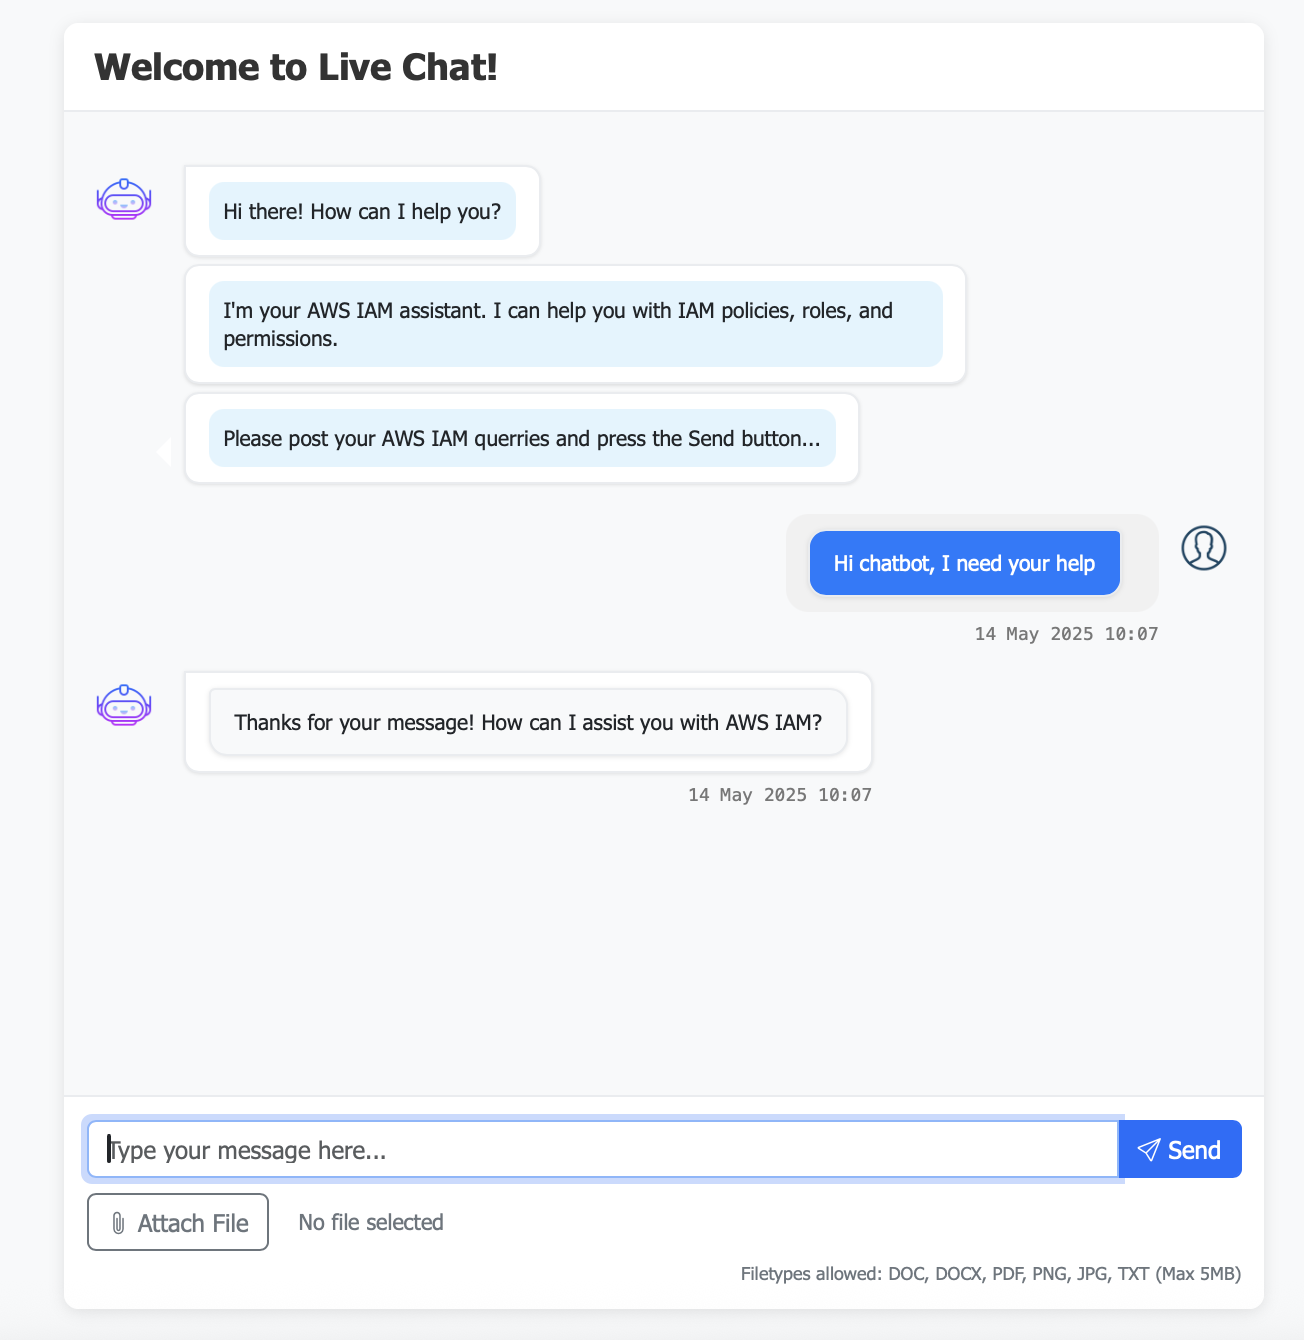
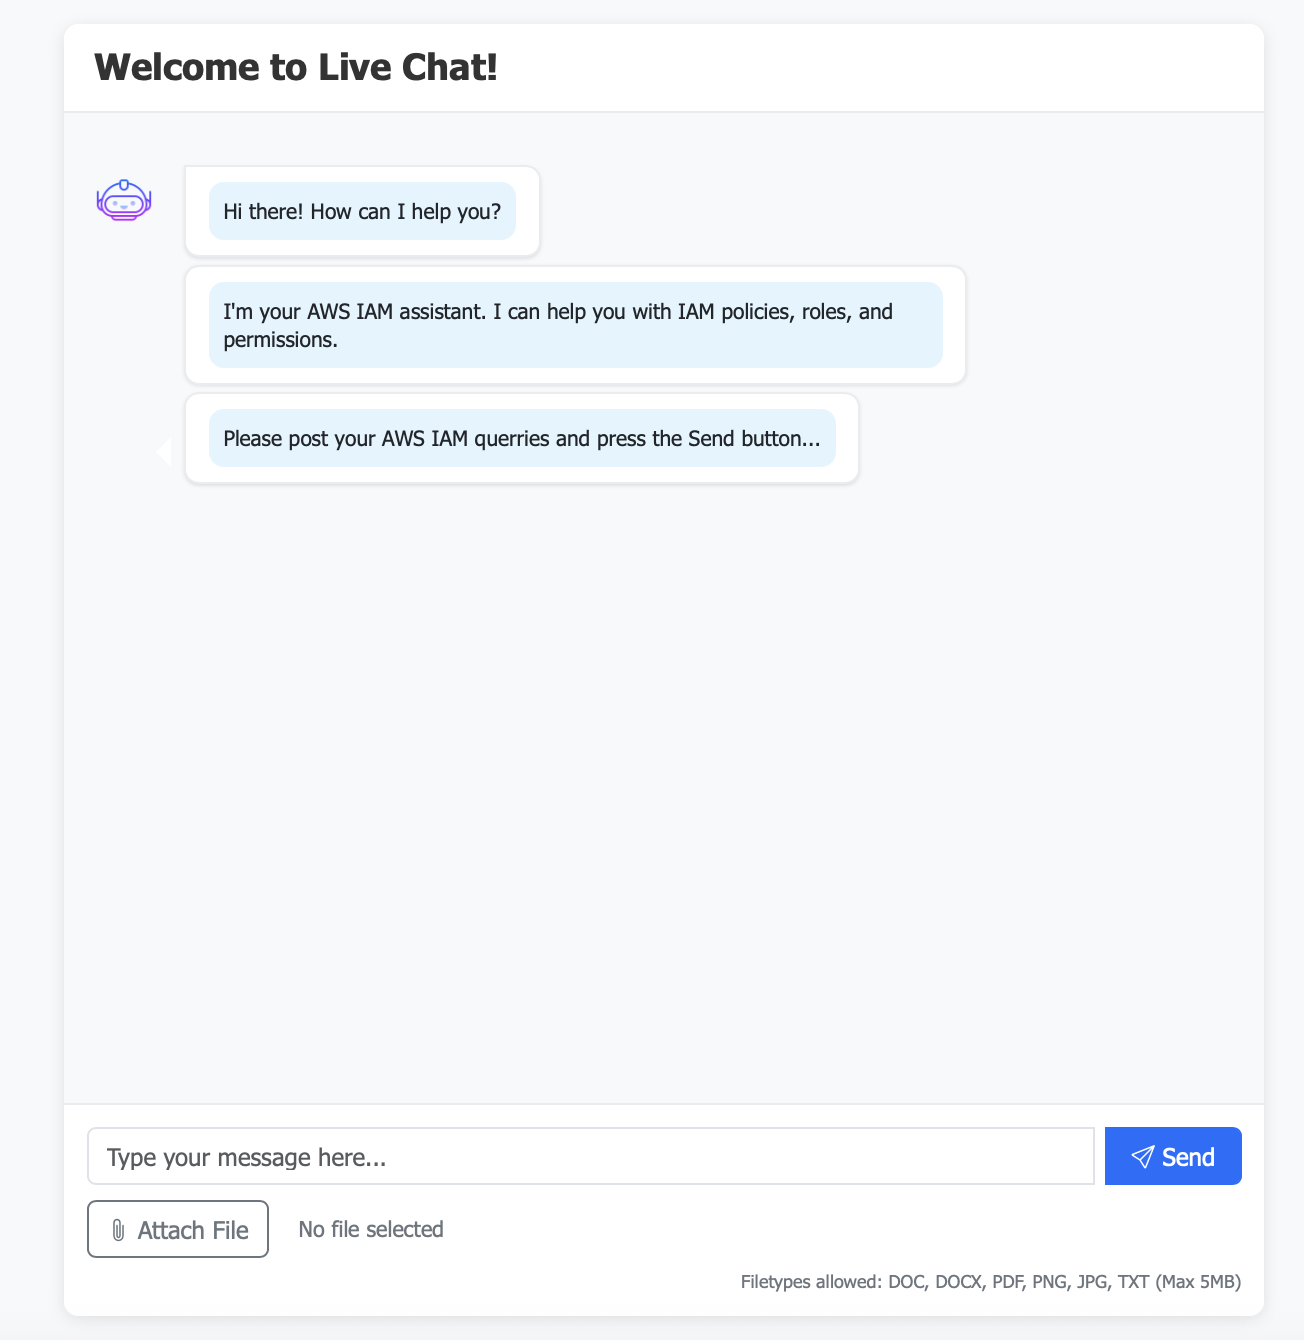
Minor fixes for input-group.

diff --git a/static/css/styles.css b/static/css/styles.css
@@ -253,6 +253,23 @@ body {
 
 .input-group {
     margin-bottom: 10px;
+    gap: 8px; /* Adds space between input and button */
+}
+
+#userInput {
+    flex: 1; /* Ensures input takes available space */
+}
+
+#sendButton {
+    padding-left: 1rem;
+    padding-right: 1rem;
+    white-space: nowrap; /* Prevents button text wrapping */
+}
+
+#sendButton:hover {
+    transform: translateY(-1px);
+    box-shadow: 0 2px 4px rgba(0, 0, 0, 0.1);
+    transition: all 0.2s ease;
 }
 
 .file-upload-container {
